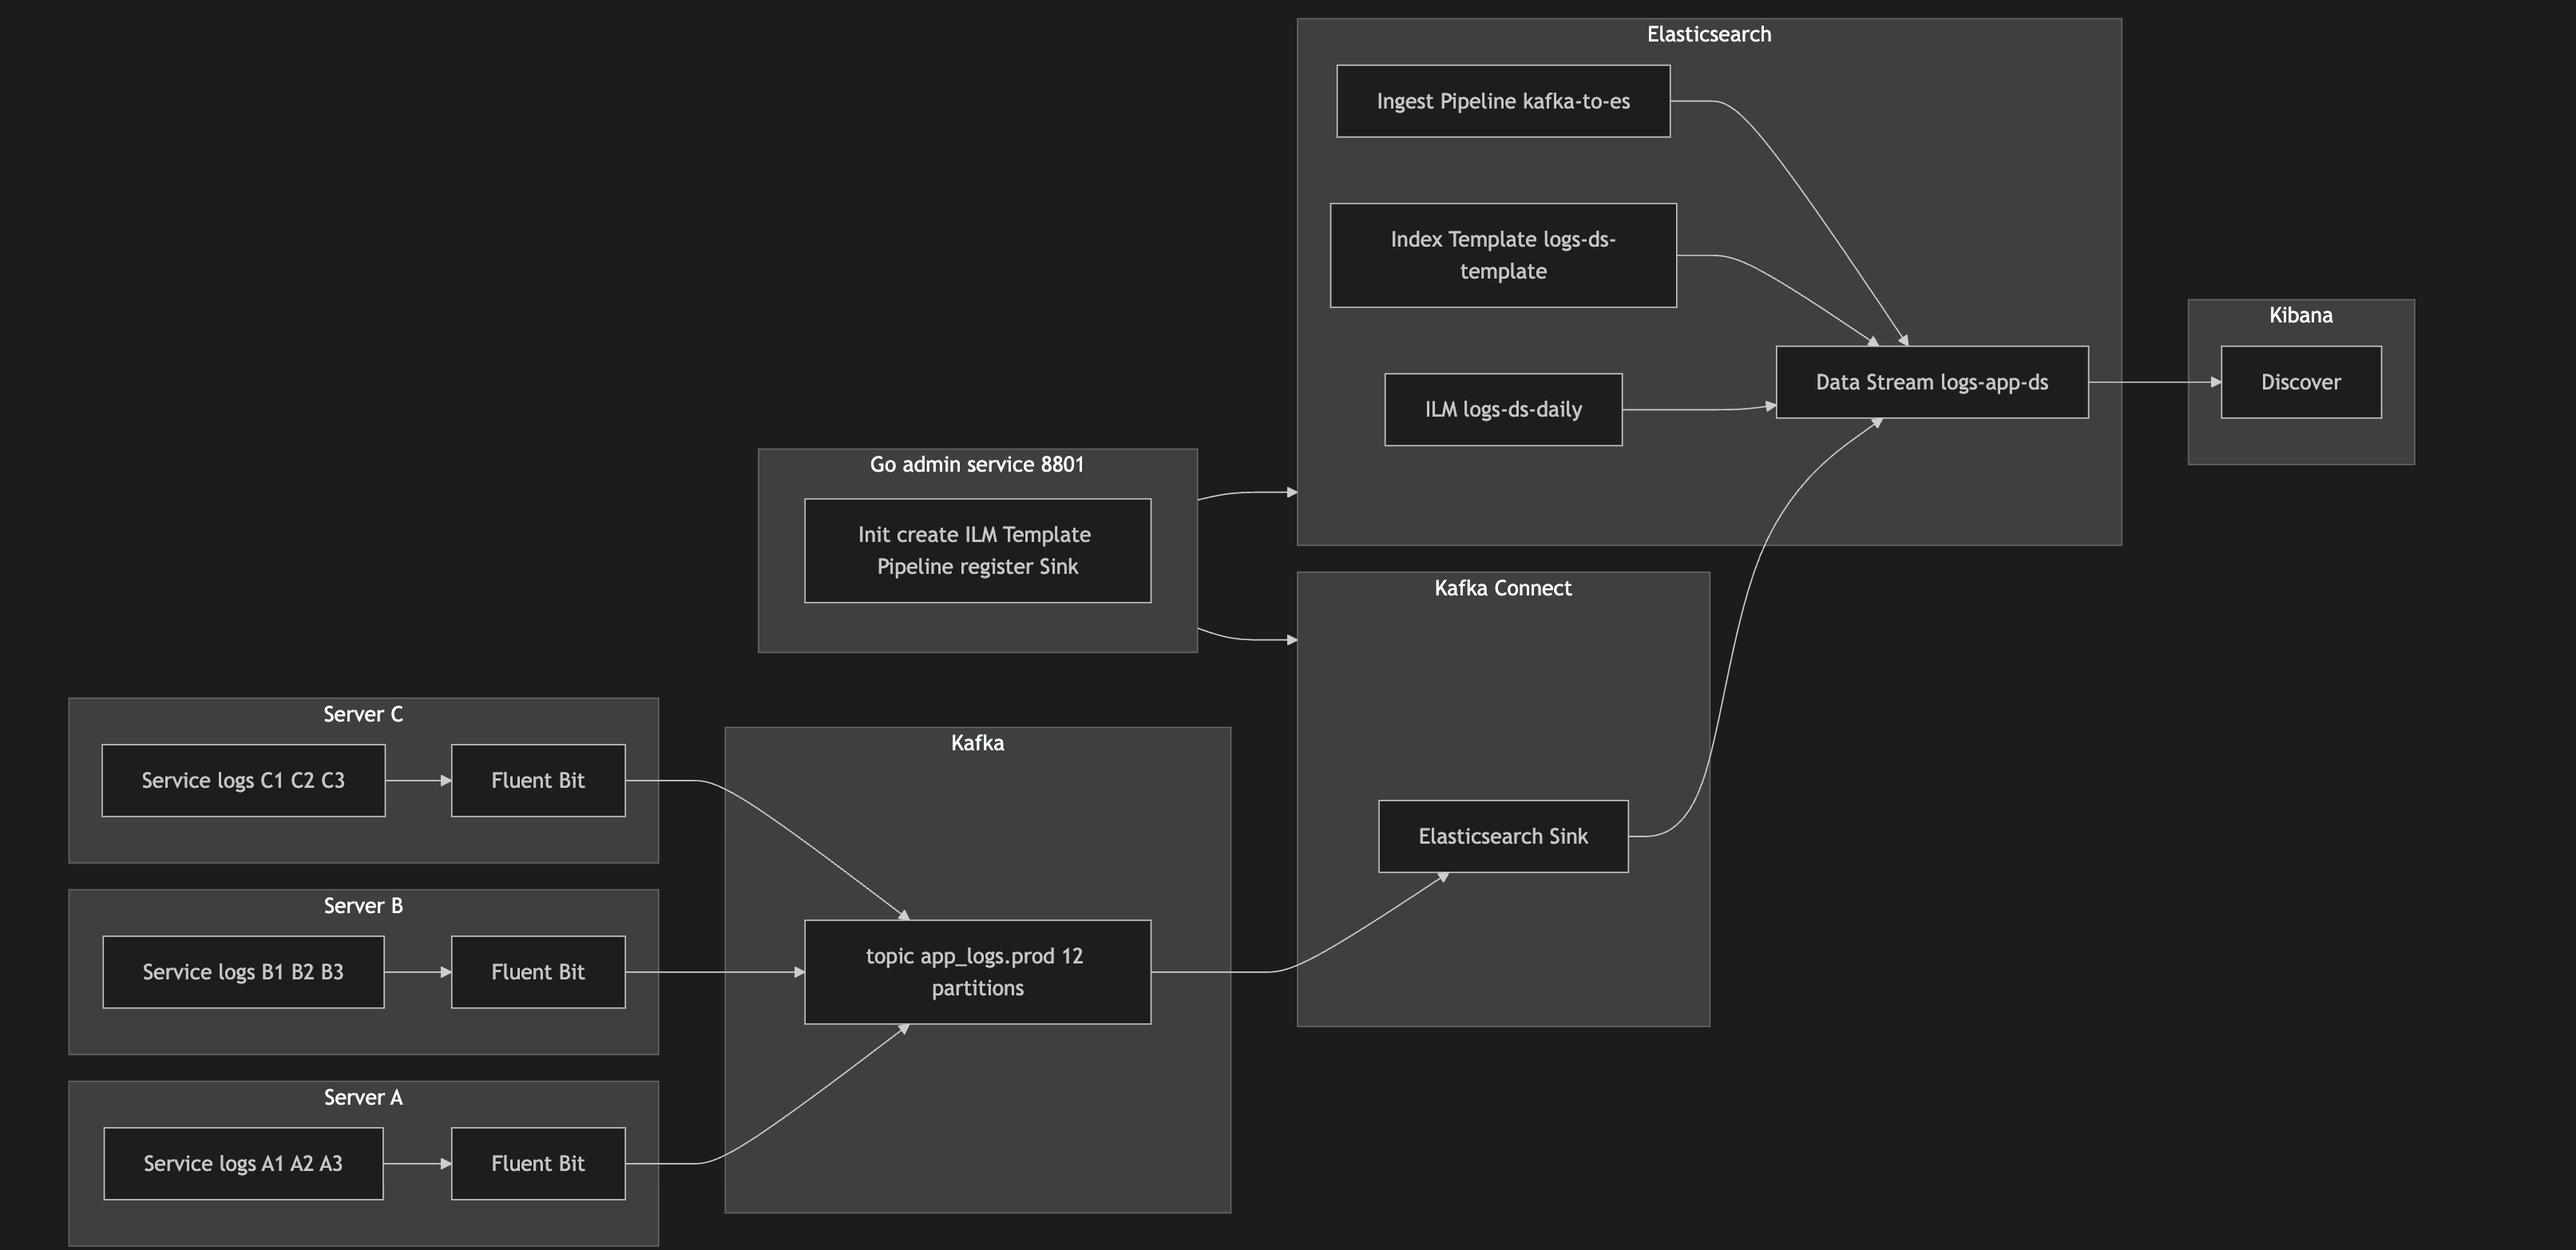
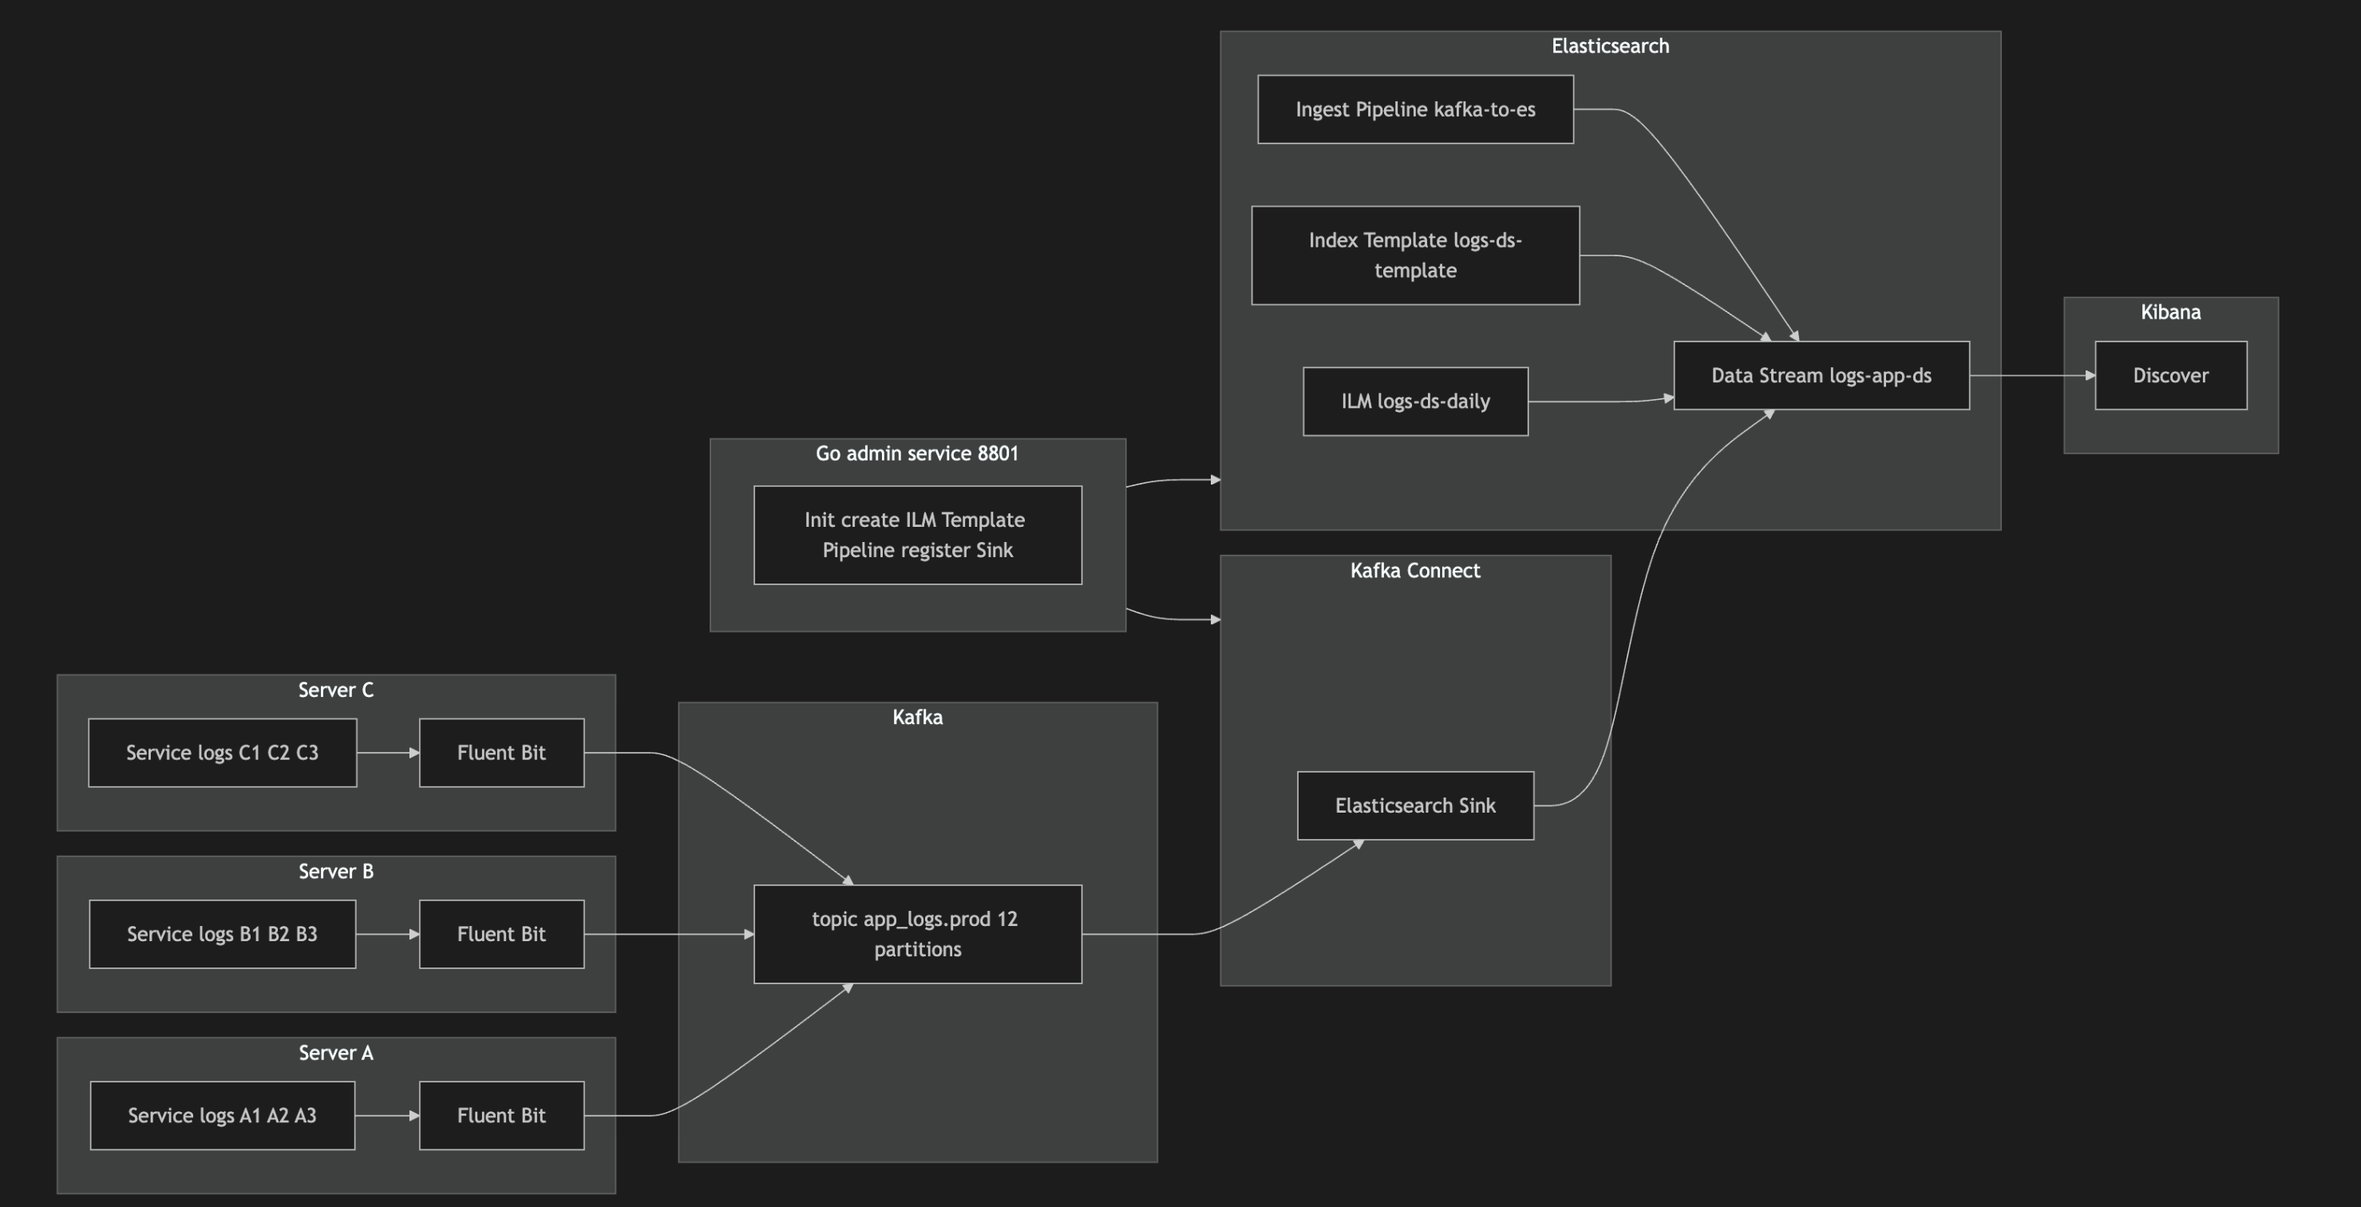
modify redme

Changed region(s): [[0.0311, 0.0, 0.9642, 1.0], [0.3732, 0.5906, 0.4043, 0.6217]]

diff --git a/README.md b/README.md
@@ -15,6 +15,22 @@
 - **Data Stream 原生化**：Connector 直接写入 Data Stream，结合 Template + ILM + Ingest Pipeline 统一治理。
 - **一键初始化**：Go 管理服务提供 API/页面，创建 ES 资源并注册 Sink Connector。
 
+## 与传统 Filebeat + Logstash + Elasticsearch 方案对比优势
+
+| 对比维度 | 本方案（Fluent Bit + Kafka + Kafka Connect + ES Data Stream） | 传统方案（Filebeat + Logstash + ES） |
+|------------|-------------------------------------------------------------|--------------------------------------------|
+| **组件数量** | 轻量、链路短：Fluent Bit → Kafka → Connect → ES | 组件多：Filebeat → Logstash → ES |
+| **性能与资源占用** | Fluent Bit 基于 C 实现，内存占用低；Kafka Connect 支持批量写入 | Logstash 基于 JRuby，内存消耗大、延迟高 |
+| **可扩展性** | Kafka 作为中心缓冲层，天然支持水平扩展与回放 | Logstash 队列有限、扩展复杂 |
+| **可靠性** | Kafka 提供持久化与重放，Connect 自带重试与 DLQ | Logstash Persistent Queue 较重，不易维护 |
+| **数据有序与幂等** | 使用 Kafka key=host:app，保证分区内顺序 + dedup_token 去重 | Logstash 流程中顺序无保证、幂等需自实现 |
+| **数据治理** | ES Data Stream + Template + ILM + Ingest Pipeline 一体化治理 | 需人工管理索引模板、ILM 与 mapping |
+| **开发维护成本** | 管理服务自动注册 Connector 与 ES 配置；配置文件简洁 | Logstash pipeline 配置繁琐、插件依赖多 |
+| **容器化与可移植性** | 全容器化部署，Compose 一键启动；跨环境迁移简单 | Logstash + Filebeat 配置繁重、版本耦合强 |
+| **延迟** | 低延迟链路（Fluent Bit → Kafka → Connect） | Logstash 通常延迟更高（多次序列化） |
+| **场景适用性** | 适合中大型集群与多服务统一日志平台 | 适合单体或简单 ETL 场景 |
+
+> 去掉 Logstash 后链路更短、性能更高、配置更简单、维护更轻量，仍保留所有必要的可靠性与扩展能力。Kafka 作为缓冲中心 + Ingest Pipeline 作为轻量处理层，组合出了“高效现代日志管线”的最佳平衡。
 ---
 
 ## 目录结构（简要）
@@ -45,16 +61,11 @@ log-pipeline/
 ---
 
 ## 快速开始（Quick Start）
-> 需求：
+### 1) 环境要求
 - Docker & Docker Compose
 - 宿主机 Linux/macOS；
 - 目前镜像支持 x86 架构；
-- 确保 tcp 9092/19092/9200/9300/5601/8083/8801 等端口可用。
-
-### 1) 准备日志目录与本地数据目录
-```bash
-chmod -R 777 mount_datas/
-```
+- 确保 TCP 9092/19092/9200/9300/5601/8083/8801 等端口可用
 
 ### 2) 部署核心服务组件
 部署思路如上述架构图所示：A、B、C 业务服务器上分别部署Fluent Bit，用来配置日志路径做采集；另外准备一台服务器D部署核心服务： Kafka、Kafka Connect、Elasticsearch、Kibana。
@@ -65,7 +76,7 @@ chmod -R 777 mount_datas/
 
 
 ### 3) 启动核心服务组件
-
+- chmod -R 777 mount_datas/
 - docker compose up -d kafka 
 间隔数秒后，kafka 启动没问题后,
 - docker compose up -d kafka-init
@@ -95,9 +106,10 @@ chmod -R 777 mount_datas/
 
 
 ### 6) 启动日志源节点收集服务
-```bash
-docker compose up -d fluent-bit
-```
+- chmod -R 777 mount_datas/
+- `docker-compose.yml` - `fluent-bit` - `volumes` 添加路径映射，比如 `- /data/rtc-logs:/data/rtc-logs:ro`
+- docker compose up -d fluent-bit
+
 
 ### 7) 在 Kibana 验证
 - 打开 `http://<HOST_IP>:5601` → Discover 添加 index ：`logs-app-ds`
@@ -107,13 +119,12 @@ docker compose up -d fluent-bit
   - 从 `file_path` 提取的 `file_name`
   - `dedup_token`（基于 Kafka 位点生成）
 
-
 ---
 
 ## 组件与配置要点说明 & check
 
 ### Fluent Bit
-- **Tail 输入**：采集 `/data/rtc-logs/agora/*.log*`
+- **Tail 输入**：采集 `/data/rtc-logs/*.log*`
 - **多行合并**：`multiline.parser` 针对堆栈等前导空白行进行粘连
 - **字段增强**：`env`/`host`/`app` 等静态或通过环境变量注入
 - **Kafka 输出**：`Message_Key_Field key`，其中 `key=host:app` 由 Lua 生成
@@ -142,6 +153,6 @@ docker compose up -d fluent-bit
 
 ---
 
-## 许可证
+###  许可证
 
 

diff --git a/imgs/ARCHITECTURE.md b/imgs/ARCHITECTURE.md
@@ -1,0 +1,62 @@
+## 架构图
+
+```mermaid
+flowchart LR
+
+subgraph A [Server A]
+  ALOGS[Service logs A1 A2 A3]
+  AF[Fluent Bit]
+  ALOGS --> AF
+end
+
+subgraph B [Server B]
+  BLOGS[Service logs B1 B2 B3]
+  BF[Fluent Bit]
+  BLOGS --> BF
+end
+
+subgraph C [Server C]
+  CLOGS[Service logs C1 C2 C3]
+  CF[Fluent Bit]
+  CLOGS --> CF
+end
+
+subgraph KAFKA [Kafka]
+  TOPIC[topic app_logs.prod 12 partitions]
+end
+
+AF --> TOPIC
+BF --> TOPIC
+CF --> TOPIC
+
+subgraph KC [Kafka Connect]
+  SINK[Elasticsearch Sink]
+end
+
+TOPIC --> SINK
+
+subgraph ES [Elasticsearch]
+  DS[Data Stream logs-app-ds]
+  PIPE[Ingest Pipeline kafka-to-es]
+  TPL[Index Template logs-ds-template]
+  ILM[ILM logs-ds-daily]
+  PIPE --> DS
+  TPL --> DS
+  ILM --> DS
+end
+
+SINK --> DS
+
+subgraph KB [Kibana]
+  DISC[Discover]
+end
+
+DS --> DISC
+
+subgraph ADMIN [Go admin service 8801]
+  API[Init create ILM Template Pipeline register Sink]
+end
+
+ADMIN --> KC
+ADMIN --> ES
+```
